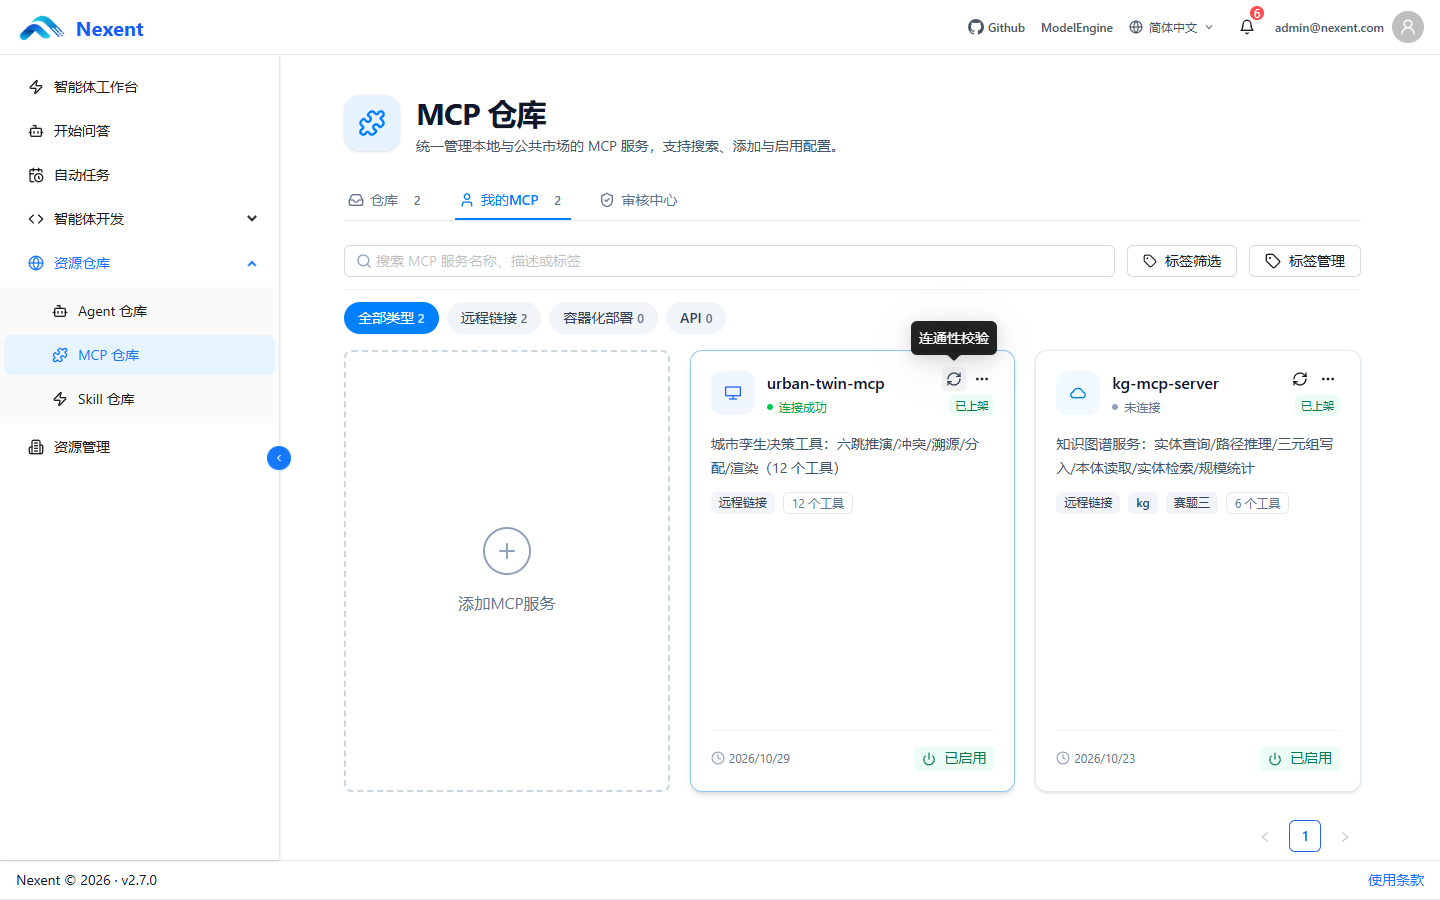
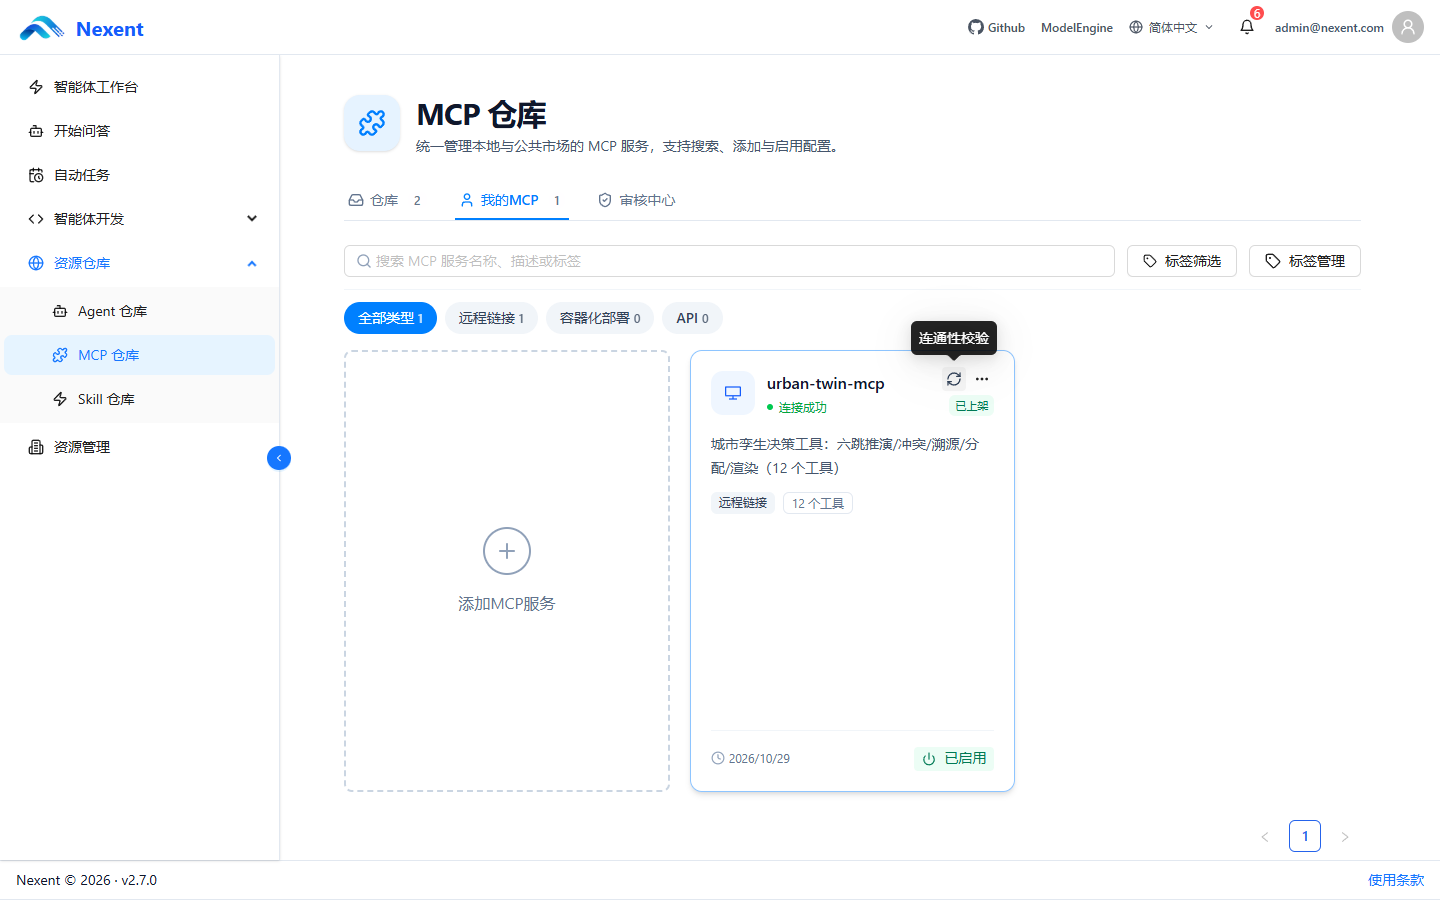
chore(platform): 清理非内涝记录（equipment_decision_agent/kg-mcp-server/ontology-builder）并刷新界面截图证据

diff --git a/deploy/nexent/capture_platform_ui.py b/deploy/nexent/capture_platform_ui.py
@@ -67,7 +67,7 @@ PAGES: List[Dict[str, Any]] = [
         "path": "/zh/mcp-space",
         "click": "我的MCP",
         # 卡片右上角的"连通性校验"按钮：先让平台真的去连一次，截图里才是"连接成功"而不是陈旧状态。
-        # 只点第一个（列表顺序里 urban-twin-mcp 在第一位；另一个是无关的 kg-mcp-server）。
+        # 现在「我的MCP」里只剩 urban-twin-mcp 一个（无关的 kg-mcp-server 已清理），点第一个即可。
         "click_selector": 'button[aria-label="连通性校验"]',
         # 卡片角标的「N 个工具」是平台在 add 时对 registry_json 的快照（本环境 2026-10-29 为 12 个），
         # 之后 MCP 侧新增工具不会自动回写角标；因此截图只断言页面上真实存在的
